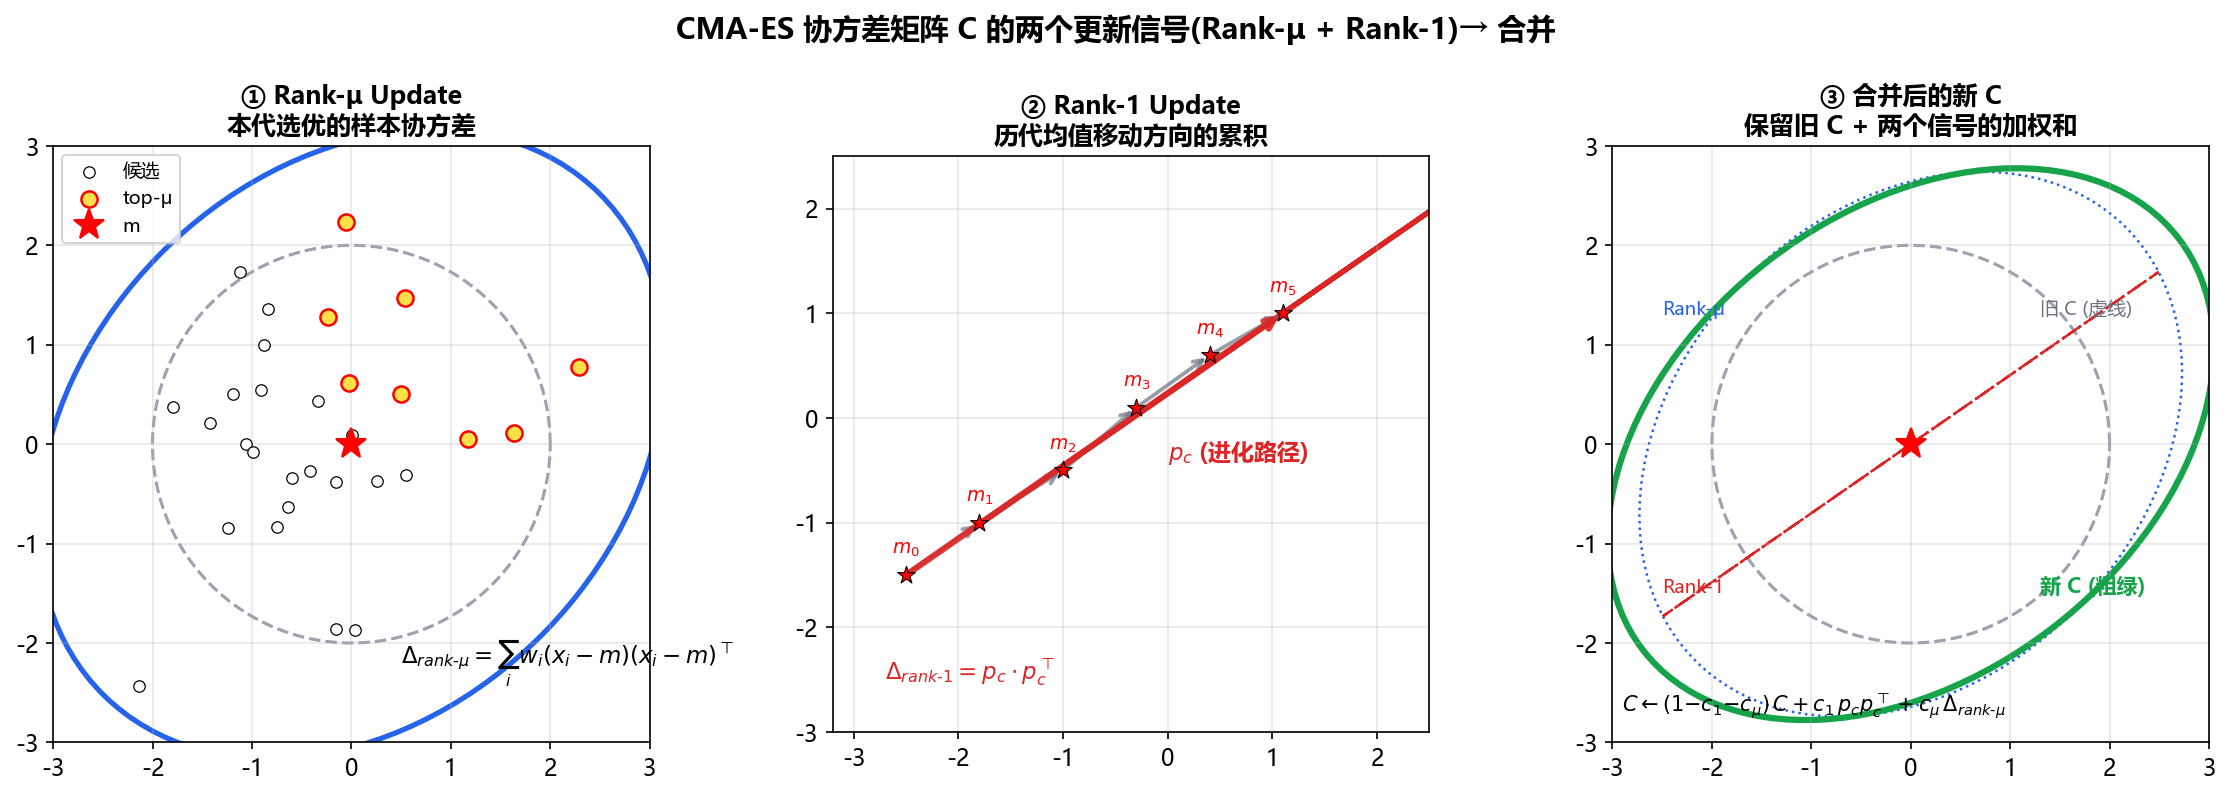
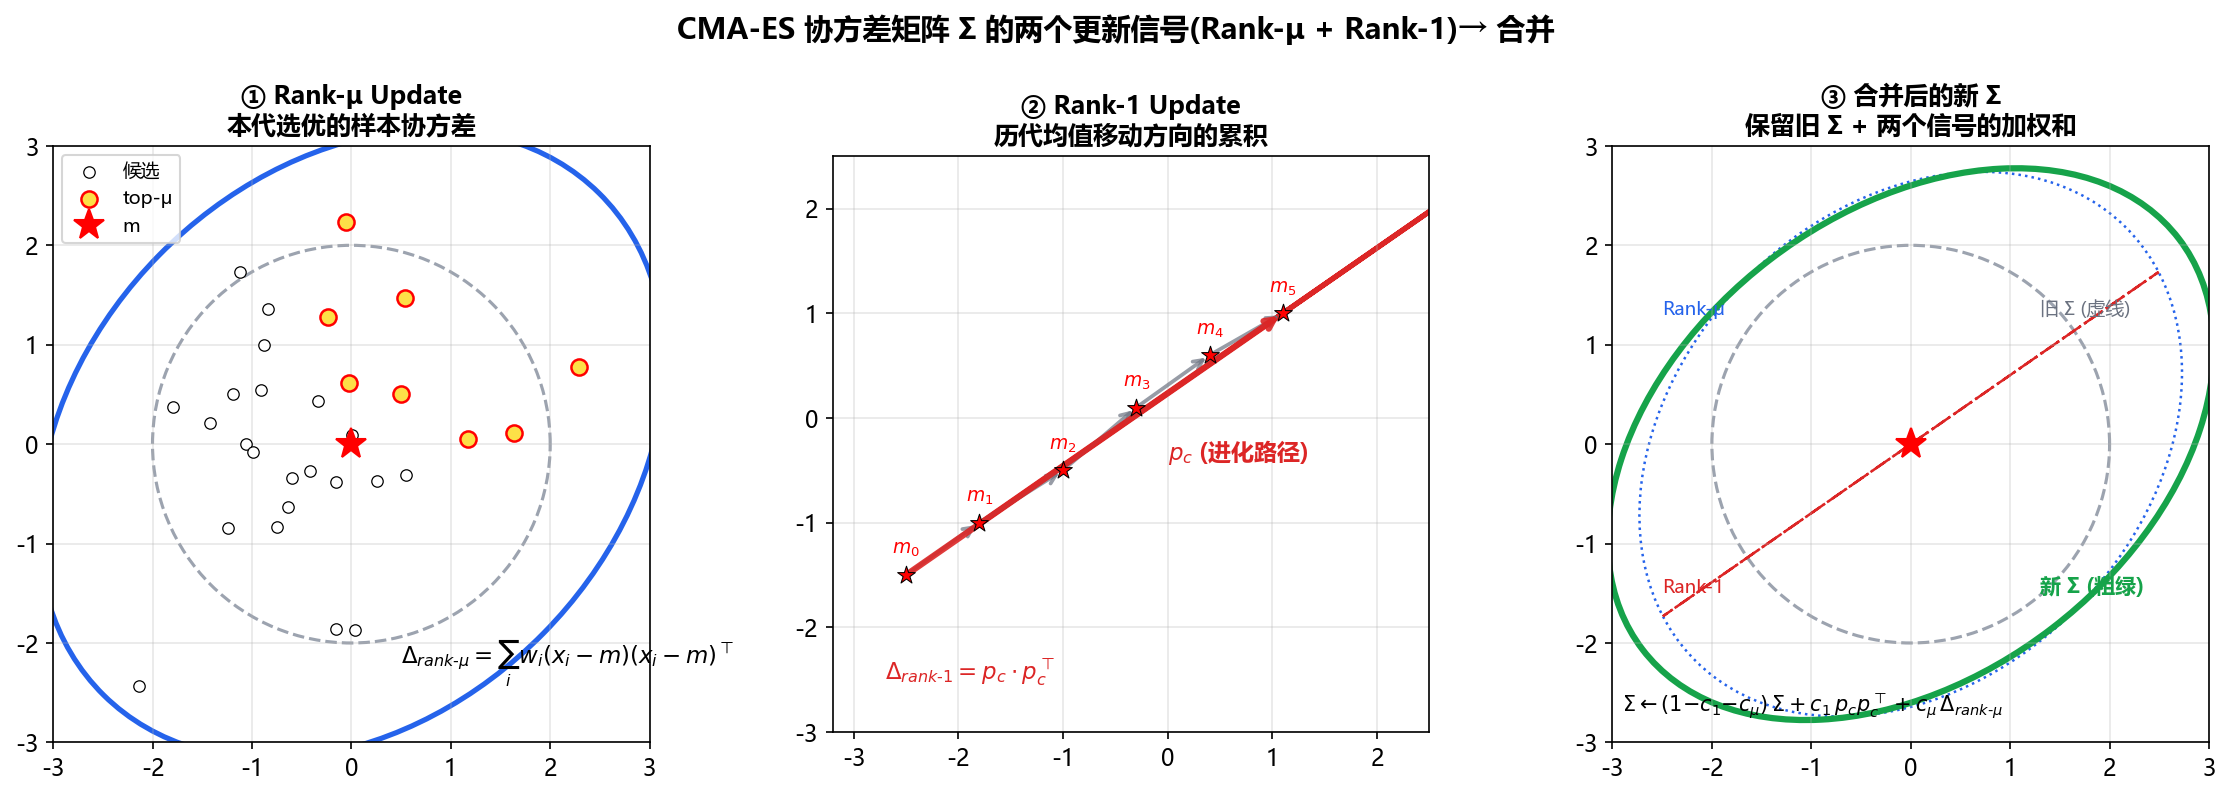
refactor: rename covariance C to Σ to avoid clash with Controller C symbol
- Standard CMA-ES uses C for covariance; Ha 2018 paper uses C for Controller
- Switch covariance to Σ (standard probability/statistics notation)
- Add notation note at Part 1 of CMA-ES section
- Re-render f12 and f13 with Σ
- Regenerate matplotlib figures 04 and 05 with Σ in labels
- Sync ZH and EN versions

diff --git a/World-Model-Study-Notes.md b/World-Model-Study-Notes.md
@@ -835,13 +835,15 @@ Empirically, Dreamer improves Atari by **10×~100×** and robotics by **1000×**
 
    **CMA-ES** = Covariance Matrix Adaptation Evolution Strategy, proposed by Nikolaus Hansen in 1996. It is one of the most successful evolutionary algorithms for **black-box continuous optimization**.
 
+   > ⚠ **Notation convention**: standard CMA-ES literature uses **C** for the covariance matrix, but in the World Models paper **C** is already taken as the symbol for the **Controller**. To avoid confusion, this section uses **Σ** (the standard symbol from probability/statistics) for the covariance matrix. So "Controller C" and "covariance Σ" are two completely different objects.
+
    ---
 
    ### Part 1: What Is CMA-ES? — The Principle in Three Sentences
 
-   1. **Maintain a multivariate Gaussian distribution** $\mathcal{N}(m, \sigma^2 C)$ describing "where the currently estimated optimum is likely located"
+   1. **Maintain a multivariate Gaussian distribution** $\mathcal{N}(m, \sigma^2 \Sigma)$ describing "where the currently estimated optimum is likely located"
    2. **Sample λ candidates each generation and select the best μ candidates** (μ ≈ λ/2)
-   3. **Update mean m, covariance C, and step size σ**, so the distribution gradually "aims" at the optimal region
+   3. **Update mean m, covariance Σ, and step size σ**, so the distribution gradually "aims" at the optimal region
 
    **Analogy — finding a mountain summit while blindfolded**: scatter a group of people around the current location → have them report altitude → identify the direction of the highest few people → move the group in that direction → meanwhile adjust the scattering shape (ellipsoid) and range (step size).
 
@@ -849,7 +851,7 @@ Empirically, Dreamer improves Atari by **10×~100×** and robotics by **1000×**
 
    <p align="center">
      <img src="asset/cma-es/02_generations_evolution.png" width="900"/><br/>
-     <i>Evolution of CMA-ES on the 2D objective function f(x,y) = −((x−3)² + 5(y+1)²). The green triangle is the true optimum (3, −1), the red star is the current mean m, the red ellipse is the current 2σ range of N(m, σ²C), white dots are sampled candidates, and yellow circles are the selected top-μ candidates. It converges reliably to the optimum within 20 generations.</i>
+     <i>Evolution of CMA-ES on the 2D objective function f(x,y) = −((x−3)² + 5(y+1)²). The green triangle is the true optimum (3, −1), the red star is the current mean m, the red ellipse is the current 2σ range of N(m, σ²Σ), white dots are sampled candidates, and yellow circles are the selected top-μ candidates. It converges reliably to the optimum within 20 generations.</i>
    </p>
 
    Observe:
@@ -870,40 +872,40 @@ Empirically, Dreamer improves Atari by **10×~100×** and robotics by **1000×**
    ② Evaluation: compute f(x_i)
    ③ Sorting:    sort by fitness and select the top μ
    ④ Mean update: m_new = Σ w_i · x_i
-   ⑤ Update covariance C and step size σ (using evolution paths)
+   ⑤ Update covariance Σ and step size σ (using evolution paths)
    ```
 
    Key hyperparameters: **λ** (population) = 16~64, **μ** = λ/2, initial **σ** = 0.1, number of generations = hundreds to thousands.
 
    #### 🔍 What Are B and D in Step ①?
 
-   $B$ and $D$ are the **eigendecomposition** of covariance matrix $C$:
+   $B$ and $D$ are the **eigendecomposition** of covariance matrix $\Sigma$:
    <p align="center"><img src="asset/formulas/f12.png" alt="formula"/></p>
 
-   - **B**: orthogonal matrix (eigenvectors of C) — geometrically a **rotation** that turns standard coordinate axes to the principal-axis directions of the C ellipsoid
-   - **D**: diagonal matrix (square roots of C's eigenvalues) — geometrically **scaling along coordinate axes**
+   - **B**: orthogonal matrix (eigenvectors of Σ) — geometrically a **rotation** that turns standard coordinate axes to the principal-axis directions of the Σ ellipsoid
+   - **D**: diagonal matrix (square roots of Σ's eigenvalues) — geometrically **scaling along coordinate axes**
 
-   **Why decompose C into B·D²·Bᵀ?** Because computers can only generate standard normal noise $z \sim \mathcal{N}(0, I)$; this noise must be transformed into samples following the $\mathcal{N}(m, \sigma^2 C)$ distribution. The figure below decomposes the full process into four intuitive steps:
+   **Why decompose Σ into B·D²·Bᵀ?** Because computers can only generate standard normal noise $z \sim \mathcal{N}(0, I)$; this noise must be transformed into samples following the $\mathcal{N}(m, \sigma^2 \Sigma)$ distribution. The figure below decomposes the full process into four intuitive steps:
 
    <p align="center">
      <img src="asset/cma-es/01_BD_decomposition.png" width="900"/><br/>
-     <i>Geometric decomposition of the sampling formula x = m + σ·B·D·z: ① start from standard spherical noise z → ② D stretches it along coordinate axes into an ellipsoid → ③ B rotates it to the principal-axis direction of C → ④ σ scales it and translates it to position m. Blue dots are 200 samples; the red ellipse is the 2σ range.</i>
+     <i>Geometric decomposition of the sampling formula x = m + σ·B·D·z: ① start from standard spherical noise z → ② D stretches it along coordinate axes into an ellipsoid → ③ B rotates it to the principal-axis direction of Σ → ④ σ scales it and translates it to position m. Blue dots are 200 samples; the red ellipse is the 2σ range.</i>
    </p>
 
-   **Tip**: B and D are recomputed only once per generation after C is updated (`eigendecompose(C)`), then reused for all λ samples in that generation, which is computationally efficient.
+   **Tip**: B and D are recomputed only once per generation after Σ is updated (`eigendecompose(Σ)`), then reused for all λ samples in that generation, which is computationally efficient.
 
-   #### Adaptation of Covariance C (the Core of CMA)
+   #### Adaptation of Covariance Σ (the Core of CMA)
 
-   > ⚠ **Clarifying a common confusion**: this subsection is about **how to update C**, which is **a different step** from the earlier "`C = B·D²·Bᵀ` eigendecomposition":
-   > - **Sampling phase** (per-generation steps ①②): extract B, D from C, and use `x = m + σ·B·D·z` to generate candidates
-   > - **Update phase** (per-generation step ⑤, this subsection): use the feedback from the current generation to **modify C itself**
-   > - The two phases connect sequentially: use the old C's B, D to sample → evaluate → update C → next generation decomposes the new C
+   > ⚠ **Clarifying a common confusion**: this subsection is about **how to update Σ**, which is **a different step** from the earlier "`Σ = B·D²·Bᵀ` eigendecomposition":
+   > - **Sampling phase** (per-generation steps ①②): extract B, D from Σ, and use `x = m + σ·B·D·z` to generate candidates
+   > - **Update phase** (per-generation step ⑤, this subsection): use the feedback from the current generation to **modify Σ itself**
+   > - The two phases connect sequentially: use the old Σ's B, D to sample → evaluate → update Σ → next generation decomposes the new Σ
 
-   CMA-ES does not update C arbitrarily. Instead, it collects **two independent pieces of evidence** and combines them to make a small adjustment to C.
+   CMA-ES does not update Σ arbitrarily. Instead, it collects **two independent pieces of evidence** and combines them to make a small adjustment to Σ.
 
    ##### Signal 1: Rank-μ Update — "Where are the top-μ candidates of this generation concentrated?"
 
-   **Intuition**: Look at the μ best candidates selected in the current generation. In which direction are they concentrated? Make C wider along that direction.
+   **Intuition**: Look at the μ best candidates selected in the current generation. In which direction are they concentrated? Make Σ wider along that direction.
 
    **Math**:
    <p align="center"><img src="asset/cma-es/06_rank_mu_formula.png" alt="rank-mu" width="450"/></p>
@@ -914,7 +916,7 @@ Empirically, Dreamer improves Atari by **10×~100×** and robotics by **1000×**
 
    ##### Signal 2: Rank-1 Update — "In which direction has the mean been moving historically?"
 
-   **Intuition**: Beyond the current generation, also look at the **accumulated direction of historical mean movement** (evolution path $p_c$). If several consecutive generations move in the same direction, this is a strong signal → reinforce C along that long-term direction.
+   **Intuition**: Beyond the current generation, also look at the **accumulated direction of historical mean movement** (evolution path $p_c$). If several consecutive generations move in the same direction, this is a strong signal → reinforce Σ along that long-term direction.
 
    **Math** — first maintain the evolution path (exponential moving average):
    <p align="center"><img src="asset/cma-es/07_pc_formula.png" alt="pc-update" width="500"/></p>
@@ -935,14 +937,14 @@ Empirically, Dreamer improves Atari by **10×~100×** and robotics by **1000×**
 
    <p align="center">
      <img src="asset/cma-es/04_rank_mu_rank_1.png" width="900"/><br/>
-     <i>① Left: Rank-μ uses the sample covariance of top-μ candidates (yellow circles) to construct an ellipse (blue), making C wider along that concentration direction; ② Middle: Rank-1 accumulates historical mean movements m₀ → m₅ into the evolution path p_c (thick red arrow); its outer product yields a "rod-shaped" contribution along that direction; ③ Right: new C (thick green) = old C (dashed) + Rank-μ (blue dotted) + Rank-1 (red dash-dotted), weighted fusion of all three.</i>
+     <i>① Left: Rank-μ uses the sample covariance of top-μ candidates (yellow circles) to construct an ellipse (blue), making Σ wider along that concentration direction; ② Middle: Rank-1 accumulates historical mean movements m₀ → m₅ into the evolution path p_c (thick red arrow); its outer product yields a "rod-shaped" contribution along that direction; ③ Right: new Σ (thick green) = old Σ (dashed) + Rank-μ (blue dotted) + Rank-1 (red dash-dotted), weighted fusion of all three.</i>
    </p>
 
-   ##### Full Update Formula for C
+   ##### Full Update Formula for Σ
 
-   <p align="center"><img src="asset/formulas/f13.png" alt="C update formula"/></p>
+   <p align="center"><img src="asset/formulas/f13.png" alt="Σ update formula"/></p>
 
-   - First term $(1 - c_1 - c_\mu) C$: **preserves most of the old C** (prevents drastic oscillations)
+   - First term $(1 - c_1 - c_\mu) \Sigma$: **preserves most of the old Σ** (prevents drastic oscillations)
    - Second term $c_1 \cdot p_c p_c^\top$: Rank-1 contribution
    - Third term $c_\mu \cdot \sum w_i (x_i - m)(x_i - m)^\top$: Rank-μ contribution
    - $c_1, c_\mu$ are small weights (typically on the order of 0.01), ensuring the sum remains positive-definite
@@ -953,10 +955,10 @@ Empirically, Dreamer improves Atari by **10×~100×** and robotics by **1000×**
 
    <p align="center">
      <img src="asset/cma-es/05_6step_loop.png" width="950"/><br/>
-     <i>Full per-generation flow: ① Eigendecompose C → obtain B, D ② Use B, D to sample λ candidates ③ Evaluate and rank ④ Update mean m and evolution path p_c ⑤ Use Rank-μ + Rank-1 to update C ⑥ Update global step size σ. The next generation returns to ① and decomposes the new C.</i>
+     <i>Full per-generation flow: ① Eigendecompose Σ → obtain B, D ② Use B, D to sample λ candidates ③ Evaluate and rank ④ Update mean m and evolution path p_c ⑤ Use Rank-μ + Rank-1 to update Σ ⑥ Update global step size σ. The next generation returns to ① and decomposes the new Σ.</i>
    </p>
 
-   **Key insight**: **"the B, D for sampling" and "the C being updated" are two faces of the same matrix** — the update phase modifies C itself, and the next generation's sampling phase extracts B, D from the new C for candidate generation. `C = B·D²·Bᵀ` is a "translation tool", whereas `C ← ...` is the actual "learning behavior".
+   **Key insight**: **"the B, D for sampling" and "the Σ being updated" are two faces of the same matrix** — the update phase modifies Σ itself, and the next generation's sampling phase extracts B, D from the new Σ for candidate generation. `Σ = B·D²·Bᵀ` is a "translation tool", whereas `Σ ← ...` is the actual "learning behavior".
 
    ---
 

diff --git a/World-Model-学习笔记.md b/World-Model-学习笔记.md
@@ -835,13 +835,15 @@ V_λ = γ^0·r_0 + γ^1·r_1 + ... + γ^14·r_14  +  γ^15·V(s_15)
 
    **CMA-ES** = Covariance Matrix Adaptation Evolution Strategy(协方差矩阵自适应进化策略),Nikolaus Hansen 1996 年提出,是**黑盒连续优化**最成功的进化算法之一。
 
+   > ⚠ **符号约定**:标准 CMA-ES 文献用 **C** 表示协方差矩阵,但 World Models 论文里 **C** 已经被用作 **Controller** 的代号。为避免混淆,本节用 **Σ**(标准统计学符号)表示协方差矩阵。所以"Controller C"和"协方差 Σ"是两个完全不同的对象。
+
    ---
 
    ### Part 1:CMA-ES 是什么 —— 三句话原理
 
-   1. **维护一个多元高斯分布** $\mathcal{N}(m, \sigma^2 C)$ 描述「当前估计的最优解可能位置」
+   1. **维护一个多元高斯分布** $\mathcal{N}(m, \sigma^2 \Sigma)$ 描述「当前估计的最优解可能位置」
    2. **每一代撒 λ 个候选,选最好的 μ 个**(μ ≈ λ/2)
-   3. **更新均值 m、协方差 C、步长 σ**,让分布慢慢"瞄准"最优区域
+   3. **更新均值 m、协方差 Σ、步长 σ**,让分布慢慢"瞄准"最优区域
 
    **比喻 —— 蒙眼找山顶**:撒一群人到当前位置周围 → 让他们汇报海拔 → 看最高的几个人在哪个方向 → 集体往那边移动 → 同时调整撒人的形状(椭球)和范围(步长)。
 
@@ -870,40 +872,40 @@ V_λ = γ^0·r_0 + γ^1·r_1 + ... + γ^14·r_14  +  γ^15·V(s_15)
    ② 评估:计算 f(x_i)
    ③ 排序:按 fitness 排,取前 μ 个
    ④ 更新均值:m_new = Σ w_i · x_i
-   ⑤ 更新协方差 C 和步长 σ(看进化路径)
+   ⑤ 更新协方差 Σ 和步长 σ(看进化路径)
    ```
 
    关键超参:**λ** (population) = 16~64,**μ** = λ/2,**σ** 初始 = 0.1,代数 = 几百到几千。
 
    #### 🔍 步骤①里的 B 和 D 是什么?
 
-   $B$ 和 $D$ 是协方差矩阵 $C$ 的**特征分解**:
+   $B$ 和 $D$ 是协方差矩阵 $\Sigma$ 的**特征分解**:
    <p align="center"><img src="asset/formulas/f12.png" alt="formula"/></p>
 
-   - **B**:正交矩阵(C 的特征向量) —— 几何上是**旋转**,把标准坐标轴转到 C 椭球的主轴方向
-   - **D**:对角矩阵(C 特征值的平方根) —— 几何上是**沿坐标轴方向缩放**
+   - **B**:正交矩阵(Σ 的特征向量) —— 几何上是**旋转**,把标准坐标轴转到 Σ 椭球的主轴方向
+   - **D**:对角矩阵(Σ 特征值的平方根) —— 几何上是**沿坐标轴方向缩放**
 
-   **为什么要拆 C 成 B·D²·Bᵀ?** 因为计算机只能生成标准正态噪声 $z \sim \mathcal{N}(0, I)$,需要将其变换成符合 $\mathcal{N}(m, \sigma^2 C)$ 分布的样本。下图把整个过程拆成 4 步直观展示:
+   **为什么要拆 Σ 成 B·D²·Bᵀ?** 因为计算机只能生成标准正态噪声 $z \sim \mathcal{N}(0, I)$,需要将其变换成符合 $\mathcal{N}(m, \sigma^2 \Sigma)$ 分布的样本。下图把整个过程拆成 4 步直观展示:
 
    <p align="center">
      <img src="asset/cma-es/01_BD_decomposition.png" width="900"/><br/>
-     <i>采样公式 x = m + σ·B·D·z 的几何分解:① 从标准球形噪声 z 出发 → ② D 沿坐标轴拉伸成椭球 → ③ B 旋转到 C 的主轴方向 → ④ σ 放大并平移到 m 位置。蓝点是 200 个采样,红色椭圆是 2σ 范围。</i>
+     <i>采样公式 x = m + σ·B·D·z 的几何分解:① 从标准球形噪声 z 出发 → ② D 沿坐标轴拉伸成椭球 → ③ B 旋转到 Σ 的主轴方向 → ④ σ 放大并平移到 m 位置。蓝点是 200 个采样,红色椭圆是 2σ 范围。</i>
    </p>
 
-   **小贴士**:每代只在 C 更新后重新算一次 B 和 D(`eigendecompose(C)`),然后这一代的 λ 次采样全部复用,计算上很划算。
+   **小贴士**:每代只在 Σ 更新后重新算一次 B 和 D(`eigendecompose(Σ)`),然后这一代的 λ 次采样全部复用,计算上很划算。
 
-   #### 协方差 C 的自适应(CMA 的灵魂)
+   #### 协方差 Σ 的自适应(CMA 的灵魂)
 
-   > ⚠ **先澄清一个常见混淆**:本小节讲的是「**如何更新 C**」,与前面「`C = B·D²·Bᵀ` 特征分解」是**两个不同的步骤**:
-   > - **采样阶段**(每代步骤 ①②):从 C 中提取 B、D,用 `x = m + σ·B·D·z` 生成候选
-   > - **更新阶段**(每代步骤 ⑤,即本节):用本代的反馈信息**修改 C 本身**
-   > - 两步前后衔接:先用旧 C 的 B、D 采样 → 评估 → 再更新 C → 下一代再分解新 C
+   > ⚠ **先澄清一个常见混淆**:本小节讲的是「**如何更新 Σ**」,与前面「`Σ = B·D²·Bᵀ` 特征分解」是**两个不同的步骤**:
+   > - **采样阶段**(每代步骤 ①②):从 Σ 中提取 B、D,用 `x = m + σ·B·D·z` 生成候选
+   > - **更新阶段**(每代步骤 ⑤,即本节):用本代的反馈信息**修改 Σ 本身**
+   > - 两步前后衔接:先用旧 Σ 的 B、D 采样 → 评估 → 再更新 Σ → 下一代再分解新 Σ
 
-   CMA-ES 不是凭空更新 C,而是收集**两种独立证据**,合并后小幅度调整 C。
+   CMA-ES 不是凭空更新 Σ,而是收集**两种独立证据**,合并后小幅度调整 Σ。
 
    ##### 信号 1:Rank-μ Update —— "本代选优集中在哪个方向?"
 
-   **直觉**:观察本代选出的 μ 个最优候选,它们集中在哪个方向?C 就在那个方向加粗。
+   **直觉**:观察本代选出的 μ 个最优候选,它们集中在哪个方向?Σ 就在那个方向加粗。
 
    **数学**:
    <p align="center"><img src="asset/cma-es/06_rank_mu_formula.png" alt="rank-mu" width="450"/></p>
@@ -914,7 +916,7 @@ V_λ = γ^0·r_0 + γ^1·r_1 + ... + γ^14·r_14  +  γ^15·V(s_15)
 
    ##### 信号 2:Rank-1 Update —— "历代均值在往哪走?"
 
-   **直觉**:不只看本代,还要看**历代均值移动的累积方向**(进化路径 $p_c$)。如果连续几代都往同一方向走,这就是个强信号 → 沿这个长期方向加强 C。
+   **直觉**:不只看本代,还要看**历代均值移动的累积方向**(进化路径 $p_c$)。如果连续几代都往同一方向走,这就是个强信号 → 沿这个长期方向加强 Σ。
 
    **数学** —— 先维护进化路径(指数滑动平均):
    <p align="center"><img src="asset/cma-es/07_pc_formula.png" alt="pc-update" width="500"/></p>
@@ -935,14 +937,14 @@ V_λ = γ^0·r_0 + γ^1·r_1 + ... + γ^14·r_14  +  γ^15·V(s_15)
 
    <p align="center">
      <img src="asset/cma-es/04_rank_mu_rank_1.png" width="900"/><br/>
-     <i>① 左:Rank-μ 用 top-μ 候选(黄圈)的样本协方差构造一个椭圆(蓝色),把 C 朝那个集中方向加粗;② 中:Rank-1 累积历代均值 m₀ → m₅ 的移动方向得到进化路径 p_c(红色粗箭头),其外积给出沿该方向的"杆状"贡献;③ 右:新 C(粗绿)= 旧 C(虚线) + Rank-μ 蓝色蓝点 + Rank-1 红色虚线,三者加权融合。</i>
+     <i>① 左:Rank-μ 用 top-μ 候选(黄圈)的样本协方差构造一个椭圆(蓝色),把 Σ 朝那个集中方向加粗;② 中:Rank-1 累积历代均值 m₀ → m₅ 的移动方向得到进化路径 p_c(红色粗箭头),其外积给出沿该方向的"杆状"贡献;③ 右:新 Σ(粗绿)= 旧 Σ(虚线) + Rank-μ 蓝色虚线 + Rank-1 红色点划线,三者加权融合。</i>
    </p>
 
-   ##### 合并后的完整 C 更新公式
+   ##### 合并后的完整 Σ 更新公式
 
-   <p align="center"><img src="asset/formulas/f13.png" alt="C update formula"/></p>
+   <p align="center"><img src="asset/formulas/f13.png" alt="Σ update formula"/></p>
 
-   - 第一项 $(1 - c_1 - c_\mu) C$:**保留旧 C 的大部分**(防止剧烈震荡)
+   - 第一项 $(1 - c_1 - c_\mu) \Sigma$:**保留旧 Σ 的大部分**(防止剧烈震荡)
    - 第二项 $c_1 \cdot p_c p_c^\top$:Rank-1 贡献
    - 第三项 $c_\mu \cdot \sum w_i (x_i - m)(x_i - m)^\top$:Rank-μ 贡献
    - $c_1, c_\mu$ 是小权重(典型 0.01 量级),保证三者加和仍是正定矩阵
@@ -953,10 +955,10 @@ V_λ = γ^0·r_0 + γ^1·r_1 + ... + γ^14·r_14  +  γ^15·V(s_15)
 
    <p align="center">
      <img src="asset/cma-es/05_6step_loop.png" width="950"/><br/>
-     <i>每代完整流程:① 特征分解 C → 得到 B, D ② 用 B, D 采样 λ 个候选 ③ 评估并排序 ④ 更新均值 m 和进化路径 p_c ⑤ 用 Rank-μ + Rank-1 更新 C ⑥ 更新全局步长 σ。下一代回到 ① 用新 C 再分解。</i>
+     <i>每代完整流程:① 特征分解 Σ → 得到 B, D ② 用 B, D 采样 λ 个候选 ③ 评估并排序 ④ 更新均值 m 和进化路径 p_c ⑤ 用 Rank-μ + Rank-1 更新 Σ ⑥ 更新全局步长 σ。下一代回到 ① 用新 Σ 再分解。</i>
    </p>
 
-   **关键洞察**:**「采样的 B, D」和「更新的 C」是同一个矩阵的两面**——更新阶段调整 C 本身,下一代的采样阶段再从新 C 提取 B、D 给候选生成用。`C = B·D²·Bᵀ` 是"翻译工具",`C ← ...` 才是"学习行为"。
+   **关键洞察**:**「采样的 B, D」和「更新的 Σ」是同一个矩阵的两面**——更新阶段调整 Σ 本身,下一代的采样阶段再从新 Σ 提取 B、D 给候选生成用。`Σ = B·D²·Bᵀ` 是"翻译工具",`Σ ← ...` 才是"学习行为"。
 
    ---
 
